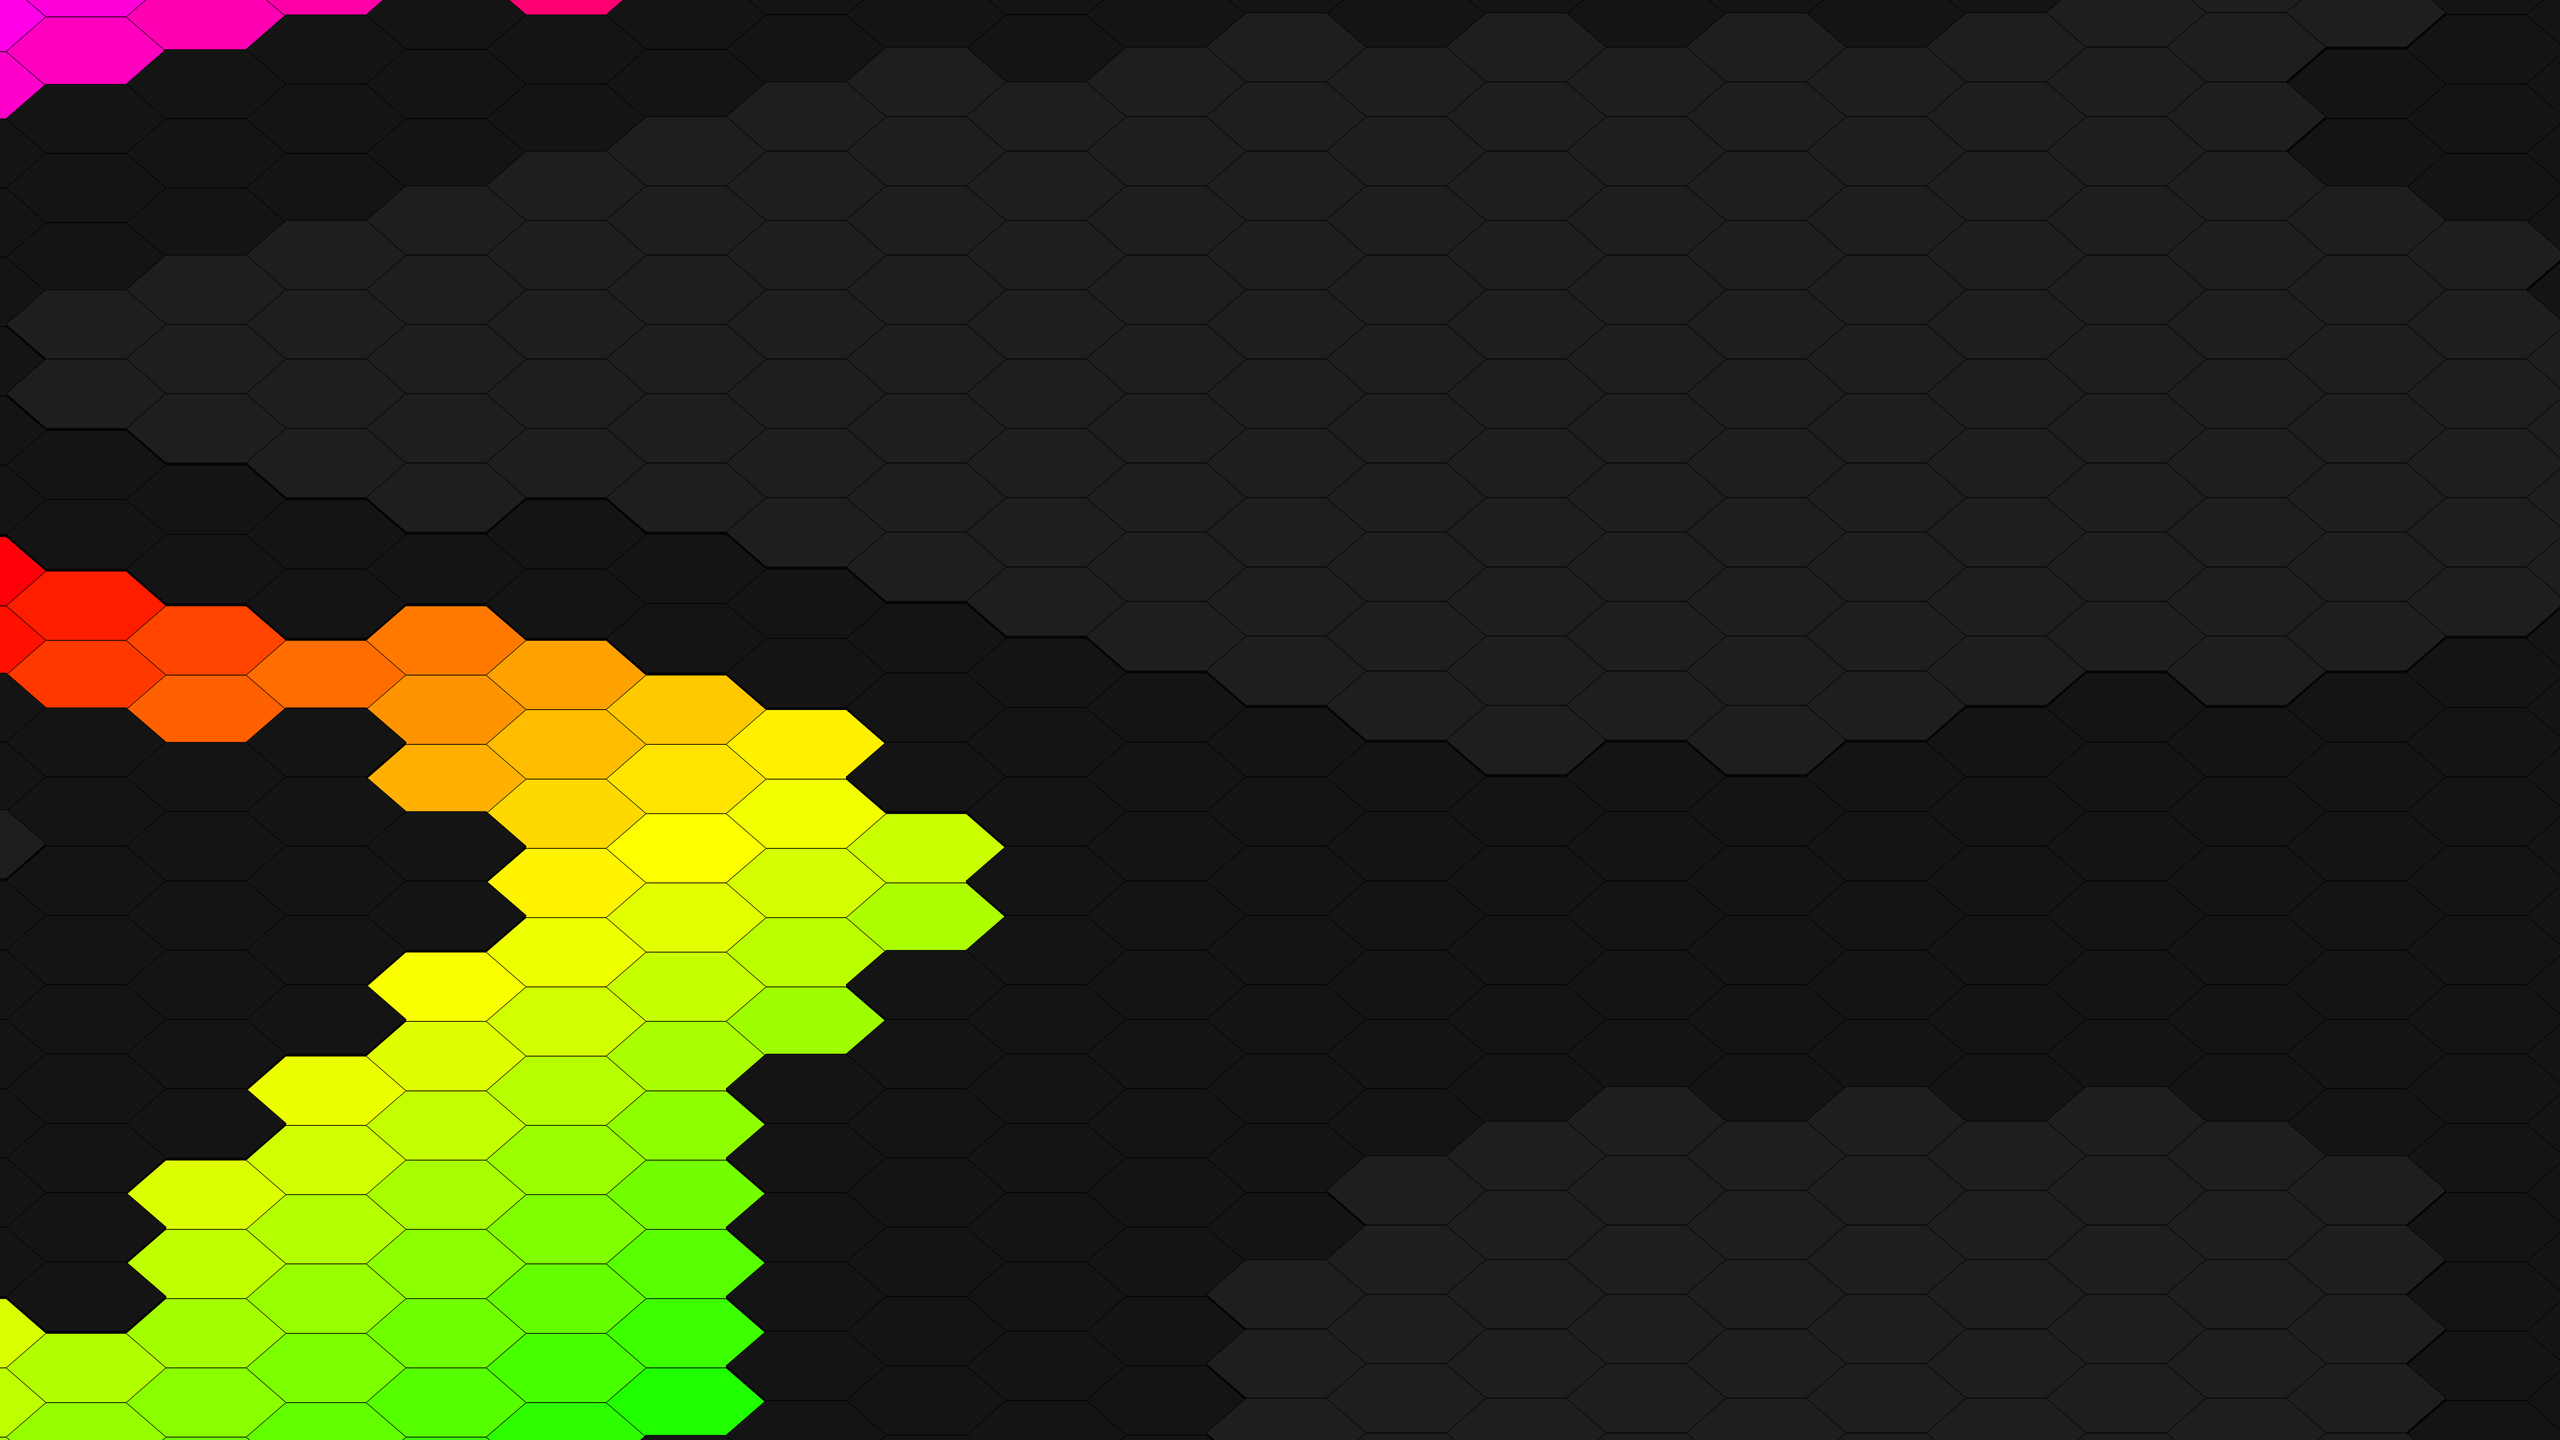
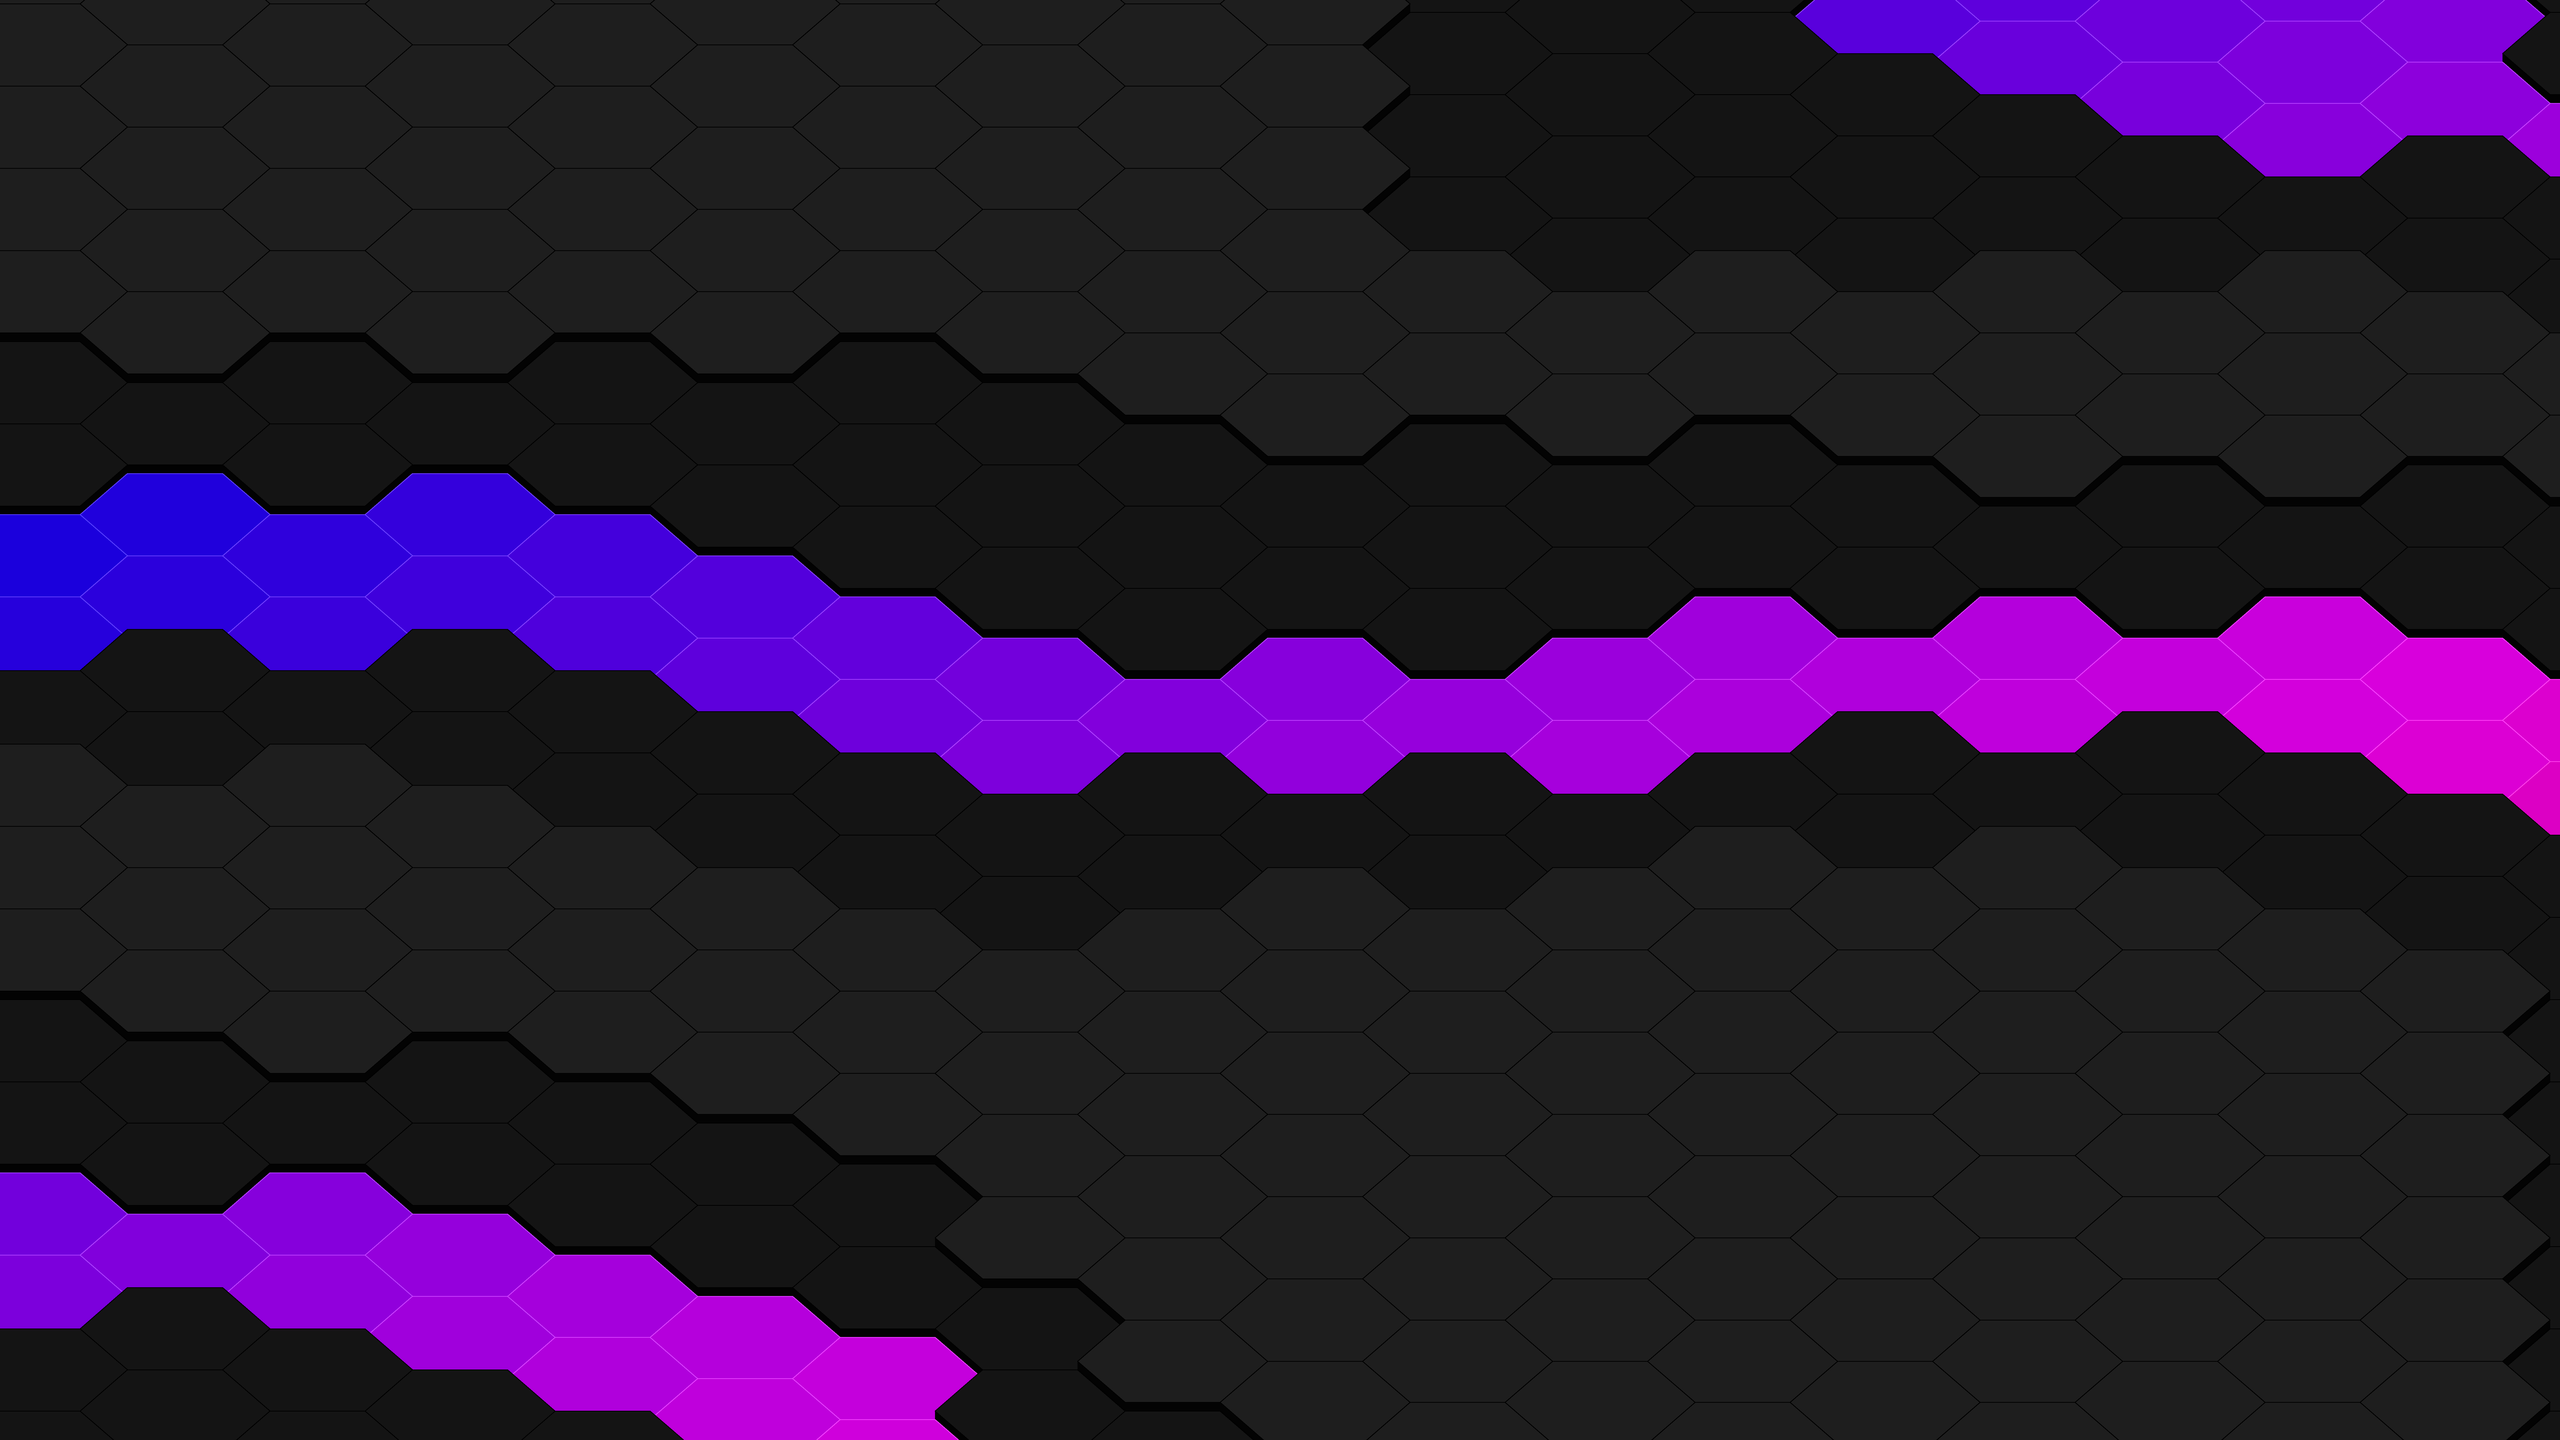
Bessere Farbliche linien

diff --git a/fractalGenerator.py b/fractalGenerator.py
@@ -32,8 +32,8 @@ LACUNARITY = 2.0  # Wie "krisselig" die Details werden
 
 
 
-HILL_PERCENTAGE = 0.45
-PLAINS_PERCENTAGE = 0.40
+HILL_PERCENTAGE = 0.35
+PLAINS_PERCENTAGE = 0.45
 TALE_PERCENTAGE = 1 - HILL_PERCENTAGE - PLAINS_PERCENTAGE
 
 # === Random Offsets für Anti-Burn-In ===
@@ -83,8 +83,8 @@ def fbm(x, y, octaves, persistence, lacunarity):
 
 
 def darken_color(color, factor=0.7):
-    """Macht eine RGB-Farbe dunkler."""
-    return tuple(int(max(0, c * factor)) for c in color)
+
+    return int(color[0] * factor), int(color[1] * factor), int(color[2] * factor)
 
 
 def get_hex_vertices(x, y, draw_radius):
@@ -188,90 +188,99 @@ def generate_wallpaper():
     # === 3. Farben und Höhen final zuweisen ===
     hexagons = []
 
+    # === 3. Farben, Höhen und Projektion IN EINEM SCHRITT ===
+    projected_hexagons = []
+    y_offset = RENDER_HEIGHT * 0.1
+
+    # Vorberechnete Konstanten für Isometrie
+    pitch = math.pi / 3
+    pitch_cos = math.cos(pitch)
+    pitch_sin = math.sin(pitch)
+    cy_render = RENDER_HEIGHT / 3
+    hex_base_offsets = get_hex_vertices(0, 0, current_hex_radius - GAP_SIZE)
+
+    # Vorberechnete Schatten-Farben (spart zehntausende Rechenoperationen!)
+    SIDE_COLOR_ELEVATED = darken_color(COLOR_ELEVATED, 0.1)
+    SIDE_COLOR_DARK = darken_color(COLOR_DARK, 0.1)
+
     for h in hexagons_temp:
         x = h['x']
         y = h['y']
-        noise_val = h['noise']  # Den identischen Noise-Wert auslesen!
+        noise_val = h['noise']
 
-        if noise_val >= thresh_plains:
-            # Berge (Die obersten X Prozent)
-            tile_color = COLOR_ELEVATED
-            height_z = HEIGHT_ELEVATET
-        elif noise_val >= thresh_valley:
-            # Normale Ebene (Die mittleren X Prozent)
-            tile_color = COLOR_DARK
-            height_z = HEIGHT_BASE
-        else:
-            # Täler (Die untersten X Prozent, ganz nah an der Null-Linie)
+        # 1. Farbe, Höhe und Schattenfarbe bestimmen
+        if noise_val >= thresh_plains:  #-------------- Gray Hills------------------
+            color = COLOR_ELEVATED
+            z = HEIGHT_ELEVATET
+            side_color = SIDE_COLOR_ELEVATED
+            outline_color = BG_COLOR
+        elif noise_val >= thresh_valley:    #-------------- Black Plains------------------
+            color = COLOR_DARK
+            z = HEIGHT_BASE
+            side_color = SIDE_COLOR_DARK
+            outline_color = BG_COLOR
+        else:       #-------------- Colored Tales------------------
             hue = (((x - start_x) / grid_width) + ((y - start_y) / grid_height)) / 2.0
             hue = (hue / SPECTRUM_STRETCH + HUE_OFFSET) % 1.0
             r, g, b = colorsys.hsv_to_rgb(hue, 1.0, COLOR_BRIGHTNESS)
-            tile_color = (int(r * 255), int(g * 255), int(b * 255))
-            height_z = 0
+            color = (int(r * 220), int(g * 220), int(b * 220))
+            z = 0
+            # Nur für die bunten Täler müssen wir den Schatten dynamisch berechnen
+            side_color = darken_color(color, 0.1)
 
-        hexagons.append({
-            'x': x,
-            'y': y,
-            'z': height_z,
-            'color': tile_color,
-            'noise': noise_val
-        })
+            core_r, core_g, core_b = colorsys.hsv_to_rgb(hue, 0.75, COLOR_BRIGHTNESS)
+            outline_color = (int(core_r * 255), int(core_g * 255), int(core_b * 255))
 
-    # Sortieren für den Painter's Algorithm
-    projected_hexagons = []
-    y_offset = RENDER_HEIGHT * 0.1 # Verschiebung auf dem Bildschirm
+            # === OPTIONALES CULLING (Ignoriert Hexagone, die weit links/rechts außerhalb des Bildschirms liegen) ===
+        if x < -current_hex_radius * 4 or x > RENDER_WIDTH + current_hex_radius * 4:
+            continue
 
-    for h in hexagons:
-        x, y, z, color = h['x'], h['y'], h['z'], h['color']
+        # 2. Sofort projizieren
+        proj_base_vertices = []
+        proj_top_vertices = []
 
-        # Mittelpunkt projizieren (Dach)
-        cx_top, cy_top = apply_isometric(x, y, z, WIDTH, HEIGHT, y_offset)
+        for dx, dy in hex_base_offsets:
+            vx = x + dx
+            vy = y + dy
 
-        # Eckpunkte Boden
-        base_vertices = get_hex_vertices(x, y, current_hex_radius - GAP_SIZE)
-        proj_base_vertices = [apply_isometric(vx, vy, 0, RENDER_WIDTH, RENDER_HEIGHT, y_offset) for vx, vy in base_vertices]
+            # Boden (z=0)
+            vy_tilted_base = vy * pitch_cos
+            proj_base_vertices.append((vx, vy_tilted_base + cy_render + y_offset))
 
-        # Eckpunkte Dach
-        top_vertices = get_hex_vertices(x, y, current_hex_radius - GAP_SIZE)
-        proj_top_vertices = [apply_isometric(vx, vy, z, RENDER_WIDTH, RENDER_HEIGHT, y_offset) for vx, vy in top_vertices]
+            # Dach (z=z)
+            vy_tilted_top = vy * pitch_cos - z * pitch_sin
+            proj_top_vertices.append((vx, vy_tilted_top + cy_render + y_offset))
 
-        # Sortierkriterium: y im unprojizierten Raum
+        # 3. Direkt in die finale Liste speichern
         projected_hexagons.append({
             'sort_y': y,
-            'base_pts': [(p[0], p[1]) for p in proj_base_vertices],
-            'top_pts': [(p[0], p[1]) for p in proj_top_vertices],
+            'base_pts': proj_base_vertices,
+            'top_pts': proj_top_vertices,
             'color': color,
+            'side_color': side_color,  # Wir übergeben die fertig berechnete Schattenfarbe
+            'outline_color': outline_color,
             'z_height': z
         })
 
-    # Painter's Algorithm: Sortieren nach y aufsteigend (kleines y = weiter hinten)
+    # Painter's Algorithm: Sortieren nach y
     projected_hexagons.sort(key=lambda item: item['sort_y'])
 
-    # Zeichnen
+    # === 4. Zeichnen (jetzt viel schlanker) ===
     for h in projected_hexagons:
         base_pts = h['base_pts']
         top_pts = h['top_pts']
         color = h['color']
-        z_height = h['z_height']
+        side_color = h['side_color']
+        outline_color = h['outline_color']
 
-        # Kanten (Säulenwände) zeichnen
-        if z_height > 1:
-            side_color_r = darken_color(color, 0.1)  # Rechte Wand (am dunkelsten)
-            side_color_f = darken_color(color, 0.1)  # Frontale Wand (heller, blickt zu uns)
-            side_color_l = darken_color(color, 0.1)  # Linke Wand
+        if h['z_height'] > 1:
+            # Wir nutzen einfach 3-mal side_color, da sie im Originalcode alle 0.1 waren
+            draw.polygon([top_pts[0], top_pts[1], base_pts[1], base_pts[0]], fill=side_color)
+            draw.polygon([top_pts[1], top_pts[2], base_pts[2], base_pts[1]], fill=side_color)
+            draw.polygon([top_pts[2], top_pts[3], base_pts[3], base_pts[2]], fill=side_color)
 
-            # Wand Rechts (Eckpunkte 0 und 1)
-            draw.polygon([top_pts[0], top_pts[1], base_pts[1], base_pts[0]], fill=side_color_r)
-            # Wand Vorne / Front (Eckpunkte 1 und 2) -> Parallel zum Bildschirmrand!
-            draw.polygon([top_pts[1], top_pts[2], base_pts[2], base_pts[1]], fill=side_color_f)
-            # Wand Links (Eckpunkte 2 und 3)
-            draw.polygon([top_pts[2], top_pts[3], base_pts[3], base_pts[2]], fill=side_color_l)
-
-        # Dach zeichnen
-        # Performance optimization: drawing polygon with outline and width > 1 is extremely slow in PIL.
-        # Instead, draw the polygon fill and then draw the outline with a separate line call.
         draw.polygon(top_pts, fill=color)
-        draw.line(top_pts + [top_pts[0]], fill=BG_COLOR, width=2)
+        draw.line(top_pts + [top_pts[0]], fill=outline_color, width=3)
     image = image.resize((WIDTH, HEIGHT), Image.Resampling.LANCZOS)
     return image
 

diff --git a/bruteForceBurnInCheck.py b/bruteForceBurnInCheck.py
@@ -1,37 +1,89 @@
 import numpy as np
 from PIL import Image
 import time
+import multiprocessing
+import os
 
 from fractalGenerator import generate_wallpaper
 from fractalGenerator import HEIGHT, WIDTH
 
+# 1. Globale Variable deklarieren, aber NOCH NICHT füllen
+shared_counter = None
 
-# Hinweis: Dieses Skript setzt voraus, dass generate_wallpaper()
-# in deinem Hauptskript definiert ist und SEED/OFFSETS bei jedem Aufruf würfelt.
 
-def run_stress_test(iterations=100):
-    print(f"=== OLED Belastungstest gestartet ({iterations} Iterationen) ===")
+# 2. Diese Funktion wird von jedem Worker beim Start EINMAL ausgeführt
+def init_worker(counter):
+    global shared_counter
+    shared_counter = counter
 
-    # Accumulator für die Bilder (Float32 verhindert Überlauf)
-    # Nutzt RENDER_WIDTH/HEIGHT falls du das Supersampling im Test behalten willst,
-    # ansonsten WIDTH/HEIGHT für einen schnelleren Check.
 
-    acc = np.zeros((HEIGHT, WIDTH, 3), dtype=np.float32)
+def batch_worker(num_images):
+    """Rechnet einen festen Block an Bildern ab und aktualisiert den Zähler."""
+    local_acc = np.zeros((HEIGHT, WIDTH, 3), dtype=np.float32)
+
+    for _ in range(num_images):
+        img = generate_wallpaper()
+        local_acc += np.array(img, dtype=np.float32)
+        del img  # Hab das del wieder rein, schont den RAM bei 1000 Bildern enorm!
+
+        # Sicherer Zugriff auf den ECHTEN gemeinsamen Zähler
+        with shared_counter.get_lock():
+            shared_counter.value += 1
+
+    return local_acc
+
+
+def run_stress_test_ultra_stable(total_images=1000):
+    num_workers = os.cpu_count()
+    images_per_worker = total_images // num_workers
+    remainder = total_images % num_workers
+
+    tasks = [images_per_worker] * num_workers
+    tasks[0] += remainder
+
+    print(f"=== Ultra-Stabiler OLED Batch-Test ===")
+    print(f"Bilder: {total_images} | Threads: {num_workers} | Batch-Größe: ~{images_per_worker}")
+    print("Starte Motoren...\n")
 
     start_time = time.time()
 
-    for i in range(iterations):
-        img = generate_wallpaper()
-        acc += np.array(img, dtype=np.float32)
+    # 3. HIER erschaffen wir das Shared-Memory-Objekt im Hauptprozess
+    counter = multiprocessing.Value('i', 0)
 
-        if (i + 1) % 10 == 0:
-            avg_temp = (acc / (i + 1)).mean()
-            print(f"Fortschritt: {i + 1}/{iterations} | Aktueller Helligkeitsschnitt: {avg_temp:.2f}/255")
+    # 4. Wir übergeben den Counter via 'initializer' an die Worker
+    with multiprocessing.Pool(processes=num_workers, initializer=init_worker, initargs=(counter,)) as pool:
+        result_objects = pool.map_async(batch_worker, tasks)
 
-    # Durchschnittsbild berechnen
-    heatmap_array = acc / iterations
+        # ETA-Loop: Läuft, solange die Worker noch rechnen
+        while not result_objects.ready():
+            # WICHTIG: Wir lesen den echten 'counter' aus dem Hauptprozess aus
+            done = counter.value
 
-    # --- STATISTIK AUSWERTUNG ---
+            if done > 0:
+                elapsed = time.time() - start_time
+                per_img = elapsed / done
+                eta = (total_images - done) * per_img
+                print(f"\rFortschritt: {done}/{total_images} | "
+                      f"Schnitt: {per_img:.2f}s/Bild | ETA: {int(eta)}s    ", end="")
+            else:
+                print(f"\rWarte auf erstes Bild...    ", end="")
+
+            time.sleep(1)  # CPU im Hauptthread schonen
+
+        # Ergebnisse einsammeln, wenn alle fertig sind
+        results = result_objects.get()
+
+    print("\n\nBerechnung fertig. Führe Ergebnisse zusammen...")
+
+    # --- Ab hier bleibt dein Code exakt gleich (Statistik-Auswertung) ---
+    final_acc = np.zeros((HEIGHT, WIDTH, 3), dtype=np.float32)
+    for res in results:
+        final_acc += res
+
+
+    # --- DEINE AUSFÜHRLICHE STATISTIK-AUSWERTUNG ---
+    heatmap_array = final_acc / total_images
+
     # 1. Gesamtdurchschnitt pro Kanal
     avg_r = np.mean(heatmap_array[:, :, 0])
     avg_g = np.mean(heatmap_array[:, :, 1])
@@ -39,14 +91,16 @@ def run_stress_test(iterations=100):
     total_avg = (avg_r + avg_g + avg_b) / 3.0
 
     # 2. Hotspots (Maximalwerte eines einzelnen Pixels über die Zeit)
-    # Wir suchen das Pixel, das über alle Bilder hinweg am hellsten war
-    max_pixel_channels = np.max(heatmap_array, axis=(0, 1))  # Max pro Kanal
-    max_brightness_map = np.mean(heatmap_array, axis=2)  # Helligkeitsmap (Schnitt der Kanäle)
-    absolute_max_pixel = np.max(max_brightness_map)  # Der hellste Punkt im Durchschnittsbild
+    max_r = np.max(heatmap_array[:, :, 0])
+    max_g = np.max(heatmap_array[:, :, 1])
+    max_b = np.max(heatmap_array[:, :, 2])
 
-    print("\n" + "=" * 40)
+    max_brightness_map = np.mean(heatmap_array, axis=2)
+    absolute_max_pixel = np.max(max_brightness_map)
+
+    print("\n" + "=" * 45)
     print("ERGEBNIS DER BELASTUNGSANALYSE")
-    print("=" * 40)
+    print("=" * 45)
 
     print(f"1. Gesamtdurchschnittliche Belastung (Skala 0-255)")
     print(f"   Rot:   ~{avg_r:.2f}")
@@ -57,9 +111,9 @@ def run_stress_test(iterations=100):
 
     print(f"\n2. Maximal mögliche 'Hotspots' (Skala 0-255)")
     print(f"   (Durchschnittliche Belastung des hellsten Pixels)")
-    print(f"   Max Rot:   {max_pixel_channels[0]:.2f}")
-    print(f"   Max Grün:  {max_pixel_channels[1]:.2f}")
-    print(f"   Max Blau:  {max_pixel_channels[2]:.2f}")
+    print(f"   Max Rot:   {max_r:.2f}")
+    print(f"   Max Grün:  {max_g:.2f}")
+    print(f"   Max Blau:  {max_b:.2f}")
     print(f"   Max Helligkeit (Pixel-Mittelwert): {absolute_max_pixel:.2f} / 255")
 
     # Abweichungs-Check
@@ -73,8 +127,10 @@ def run_stress_test(iterations=100):
     # Heatmap speichern
     heatmap_img = Image.fromarray(np.clip(heatmap_array, 0, 255).astype(np.uint8))
     heatmap_img.save("oled_stress_test_result.png")
-    print("\nHeatmap wurde als 'oled_stress_test_result.png' gespeichert.")
+    print(f"\nHeatmap wurde als 'oled_stress_test_result.png' gespeichert.")
+    print(f"Gesamtdauer: {time.time() - start_time:.1f}s")
 
 
 if __name__ == "__main__":
-    run_stress_test(100)
+    # Jetzt kannst du bedenkenlos hohe Zahlen (200, 500, etc.) reinhauen!
+    run_stress_test_ultra_stable(1000)